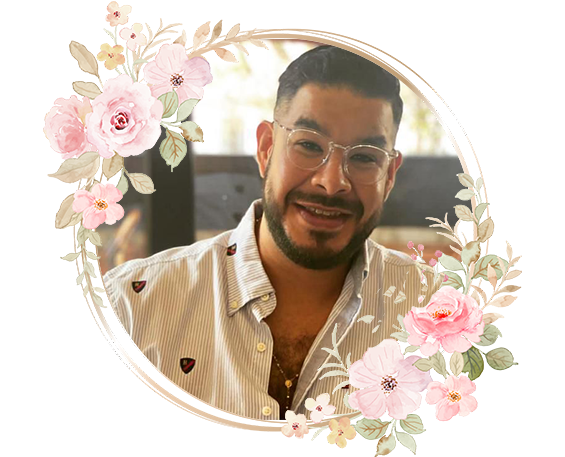
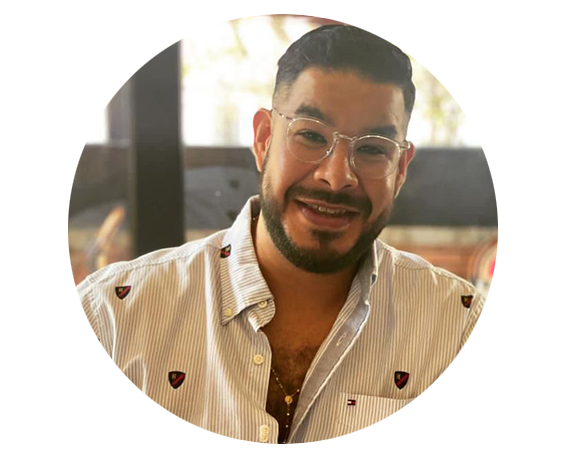
changes 2.1

diff --git a/src/components/special.js b/src/components/special.js
@@ -16,7 +16,7 @@ export default class special extends Component {
             <div className='container has-text-centered'>
              
               <div className='columns is-centered is-mobile'>
-                <div className='column gifta is-full py-6  animate__animated  animate__fadeInDown'>
+                <div className='column  card gifta  is-full py-6  animate__animated  animate__fadeInDown'>
                 <img src={Paps} className='thumb2'></img>
                   <h1 class="tempting blue">Mis Papis</h1> 
                   
@@ -43,7 +43,7 @@ export default class special extends Component {
           <div className='hero-body'>
               <div className='container has-text-centered'>
                 <div className='columns is-centered'>
-                  <div className='column py-6  is-full gifta'>
+                  <div className='column  card gifta py-6  is-full '>
                   <img src={PadrinoP} className='thumb2'></img>
                     <h1 class="tempting green pt-4">Padrino de <br></br>Presentación</h1>
                     <br></br>
@@ -62,7 +62,7 @@ export default class special extends Component {
           <div className='hero-body'>
               <div className='container has-text-centered'>
                 <div className='columns is-centered'>
-                  <div className='column py-6  is-full gifta'>
+                  <div className='column  card gifta py-6  is-full '>
                     <img src={Padrinos} className='thumb2'></img>
                     <h1 class="tempting green pt-4">Mis Padrinos <br></br> (Bautizo)</h1>
                     

diff --git a/src/components/cover.js b/src/components/cover.js
@@ -1,11 +1,11 @@
 import React, { Component } from 'react';
 import Fecha from '../assets/BT/Fecha.png';
-import Start from '../assets/BT/bautizo.png';
+import Start from '../assets/BT/bby.png';
 
 export default class cover extends Component {
   render() {
     
-    var countDownDate = new Date("Dec 28, 2023 13:00:00").getTime();
+    var countDownDate = new Date("Jan 13, 2023 13:00:00").getTime();
 
     // Update the count down every 1 second
     var x = setInterval(function() {
@@ -48,7 +48,7 @@ export default class cover extends Component {
             <div className="columns has-text-centered">
               <div className='column is-full '>
                 <img src={Start} className='thumb2'></img>
-                <h1 className=' blue tempting couple my-3'>Alecita</h1>
+                <h1 className=' blue tempting couple my-3'> Alejandra Lourdes Avalos Ceballos</h1>
                 <i><h2 class="subtitle futura white">“Acompañanos en esta gran celebración”</h2></i>
                 <br></br>
                  <b><p id='demo' className=' blue tempting'></p></b>

diff --git a/src/components/ending.js b/src/components/ending.js
@@ -1,5 +1,5 @@
 import React, { Component } from 'react'
-import Bby from '../assets/BT/bby.png';
+import Bby from '../assets/BT/bby2.png';
 
 
 export default class ending extends Component {
@@ -12,7 +12,7 @@ export default class ending extends Component {
                 
                 <div className='columns'>
                     
-                    <div className='column  gifta py-6 is-full '>
+                    <div className='column card  py-6 is-full '>
                         <img src={Bby} className='thumb2'></img>
 
                         <h1 className=' is-1 pacific green my-6'>Agradecemos su asistencia</h1>
